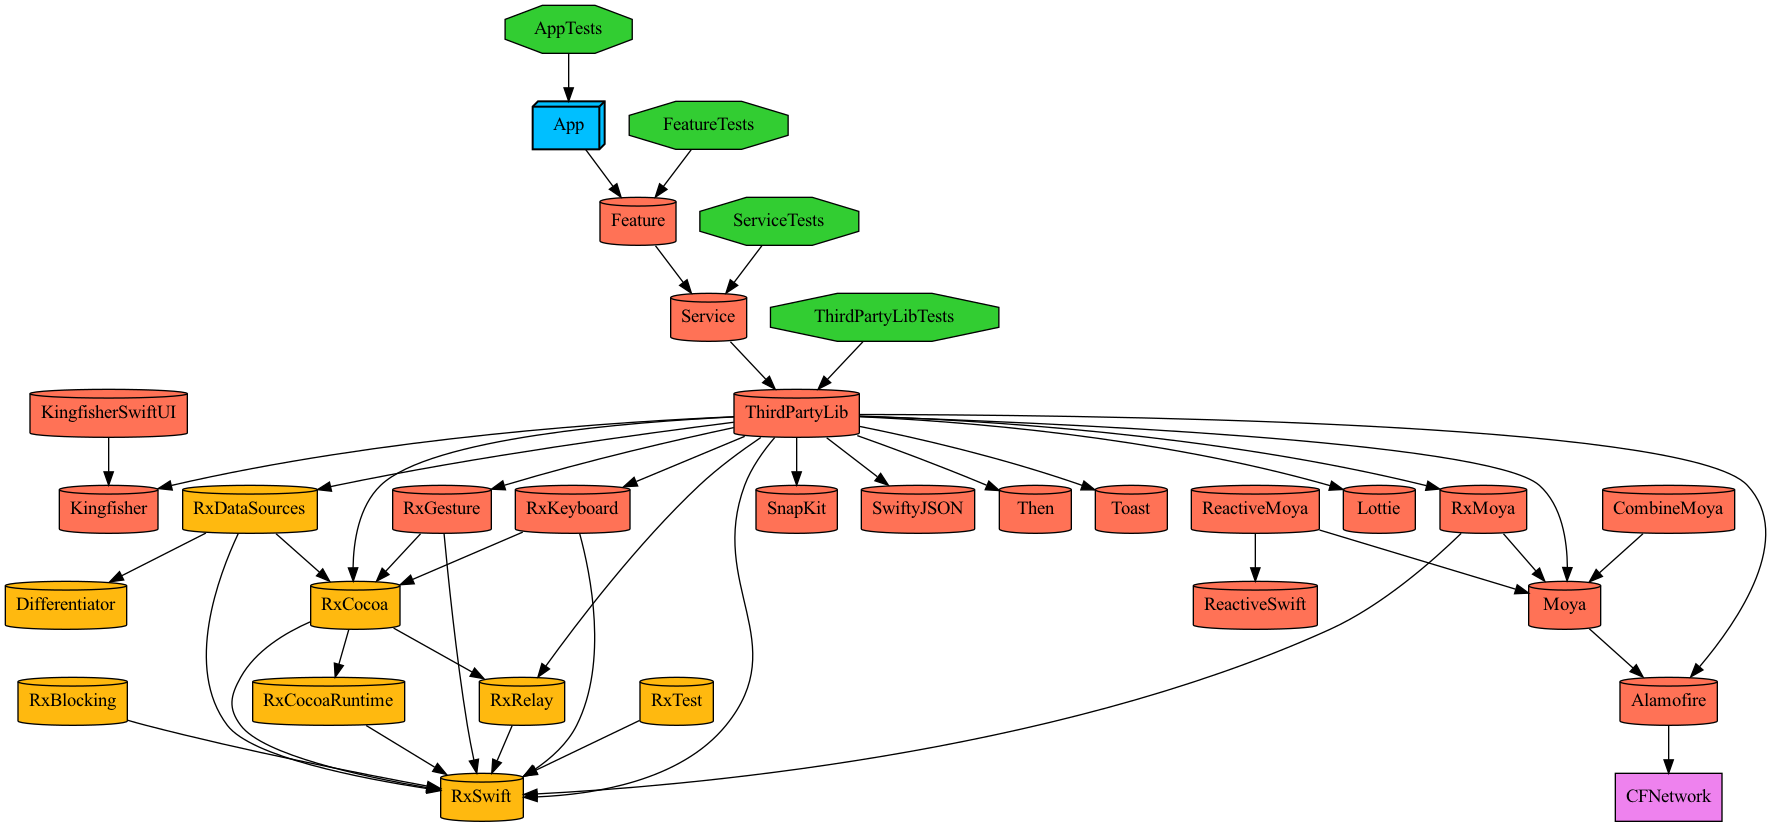
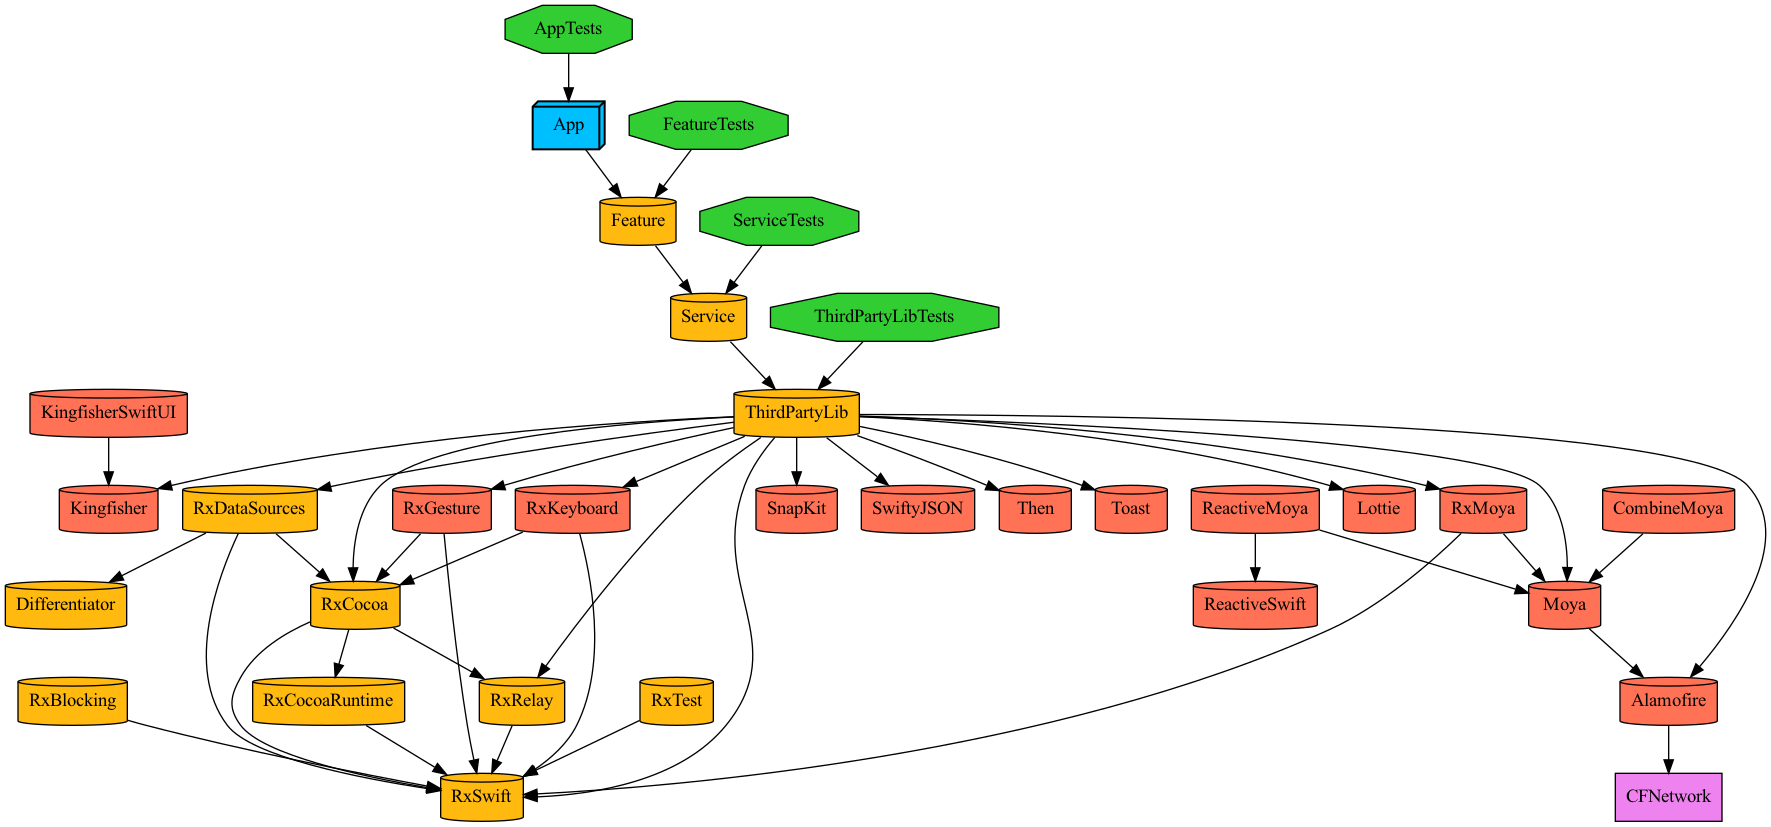
Fix: Project 생성 함수 로직 수정, staticFramework -> framework from project 변경

Changed region(s): [[0.4037, 0.4534, 0.4969, 0.5441], [0.3727, 0.3325, 0.4348, 0.4232], [0.3416, 0.2418, 0.4037, 0.3023]]

diff --git a/Tuist/ProjectDescriptionHelpers/Project+Templates.swift b/Tuist/ProjectDescriptionHelpers/Project+Templates.swift
@@ -6,21 +6,93 @@ import ProjectDescription
 /// See https://docs.tuist.io/guides/helpers/
 ///
 public extension Project {
-    static let bundleId = "com.jinwoo"
+
+    static let bundleId = "com.jinwoo.tuistSample"
+    static let deploymentTarget : ProjectDescription.DeploymentTarget =
+        .iOS(targetVersion: "14.0", devices: [.iphone, .ipad])
     
-    static func makeModule(
+
+    // MARK: make App
+
+    static func app(
         name: String,
-        platform: Platform = .iOS,
-        product: Product,
-        organizationName: String = "jinwoo",
-        packages: [Package] = [],
-        deploymentTarget: DeploymentTarget? = .iOS(targetVersion: "14.0", devices: [.iphone, .ipad]),
+        product: Product = .app,
         dependencies: [TargetDependency] = [],
-        sources: SourceFilesList = ["Sources/**"],
-        resources: ResourceFileElements? = nil,
+        resources: ProjectDescription.ResourceFileElements? = nil,
         infoPlist: InfoPlist = .default
     ) -> Project {
-        let settings: Settings = .settings(
+        return project(
+            name: name,
+            product: product,
+            dependencies: dependencies,
+            resources: resources,
+            infoPlist: infoPlist
+        )
+    }
+
+    // MARK: make Framework(project)
+
+    static func framework(
+        name: String,
+        product: Product = .framework,
+        dependencies: [TargetDependency] = [],
+        resources: ProjectDescription.ResourceFileElements? = nil,
+        infoPlist: InfoPlist = .default
+    ) -> Project {
+        return project(
+            name: name,
+            product: product,
+            dependencies: dependencies,
+            resources: resources,
+            infoPlist: infoPlist
+        )
+    }
+
+    // MARK: make Project
+
+    static func project(
+        name: String,
+        product: Product,
+        dependencies: [TargetDependency] = [],
+        resources: ProjectDescription.ResourceFileElements? = nil,
+        infoPlist: InfoPlist = .default
+    ) -> Project{
+        return Project(
+            name: name,
+            settings: .makeSetting(),
+            targets: [
+                Target(
+                    name: name,
+                    platform: .iOS,
+                    product: product,
+                    bundleId: "\(bundleId).\(name)",
+                    deploymentTarget: deploymentTarget,
+                    infoPlist: infoPlist,
+                    sources: ["Sources/**"],
+                    resources: resources,
+                    dependencies: dependencies
+                ),
+                Target(
+                    name: "\(name)Tests",
+                    platform: .iOS,
+                    product: .unitTests,
+                    bundleId: "\(bundleId).\(name)Tests",
+                    deploymentTarget: deploymentTarget,
+                    infoPlist: infoPlist,
+                    sources: ["Tests/**"],
+                    dependencies: [.target(name: name)]
+                )
+            ],
+            schemes: [.makeScheme(target: .debug, name: name)]
+        )
+    }
+}
+
+// MARK: make Settings
+
+public extension Settings{
+    static func makeSetting() -> Settings {
+        return settings(
             base: [:],
             configurations: [
                 .debug(name: .debug),
@@ -28,46 +100,12 @@ public extension Project {
             ],
             defaultSettings: .recommended
         )
-
-        let appTarget = Target(
-            name: name,
-            platform: platform,
-            product: product,
-            bundleId: "\(bundleId).\(name)",
-            deploymentTarget: deploymentTarget,
-            infoPlist: infoPlist,
-            sources: sources,
-            resources: resources,
-            dependencies: dependencies
-        )
-
-        let testTarget = Target(
-            name: "\(name)Tests",
-            platform: platform,
-            product: .unitTests,
-            bundleId: "\(bundleId).\(name)Tests",
-            deploymentTarget: deploymentTarget,
-            infoPlist: .default,
-            sources: ["Tests/**"],
-            dependencies: [.target(name: name)]
-        )
-
-        let schemes: [Scheme] = [.makeScheme(target: .debug, name: name)]
-
-        let targets: [Target] = [appTarget, testTarget]
-
-        return Project(
-            name: name,
-            organizationName: organizationName,
-            packages: packages,
-            settings: settings,
-            targets: targets,
-            schemes: schemes
-        )
     }
 }
 
-extension Scheme {
+// MARK: make Scheme
+
+public extension Scheme {
     static func makeScheme(target: ConfigurationName, name: String) -> Scheme {
         return Scheme(
             name: name,

diff --git a/TuistSample/ThirdPartyLib/Project.swift b/TuistSample/ThirdPartyLib/Project.swift
@@ -9,10 +9,8 @@ import ProjectDescription
 import ProjectDescriptionHelpers
 import UtilityPlugin
 
-let project = Project.makeModule(
+let project = Project.framework(
     name: "ThirdPartyLib",
-    product: .staticFramework,
-    packages: [],
     dependencies: [
         .rxSwift,
         .rxCocoa,
@@ -29,6 +27,5 @@ let project = Project.makeModule(
         .rxGesture,
         .swiftyJson,
         .toast
-//        .firebaseAnalytics
     ]
 )

diff --git a/TuistSample/Feature/Project.swift b/TuistSample/Feature/Project.swift
@@ -9,11 +9,9 @@ import ProjectDescription
 import ProjectDescriptionHelpers
 import UtilityPlugin
 
-let project = Project.makeModule(
+let project = Project.framework(
     name: "Feature",
-    product: .staticFramework,
     dependencies: [
         .Module.service
-    ],
-    resources: .default
+    ]
 )

diff --git a/TuistSample/Service/Project.swift b/TuistSample/Service/Project.swift
@@ -9,9 +9,8 @@ import ProjectDescription
 import ProjectDescriptionHelpers
 import UtilityPlugin
 
-let project = Project.makeModule(
+let project = Project.framework(
     name: "Service",
-    product: .staticFramework,
     dependencies: [
         .Module.thirdPartyLib
     ]

diff --git a/TuistSample/App/Project.swift b/TuistSample/App/Project.swift
@@ -9,11 +9,8 @@ import ProjectDescription
 import ProjectDescriptionHelpers
 import UtilityPlugin
 
-
-let project = Project.makeModule(
+let project = Project.app(
     name: "App",
-    platform: .iOS,
-    product: .app,
     dependencies: [
         .Module.feature
     ],
